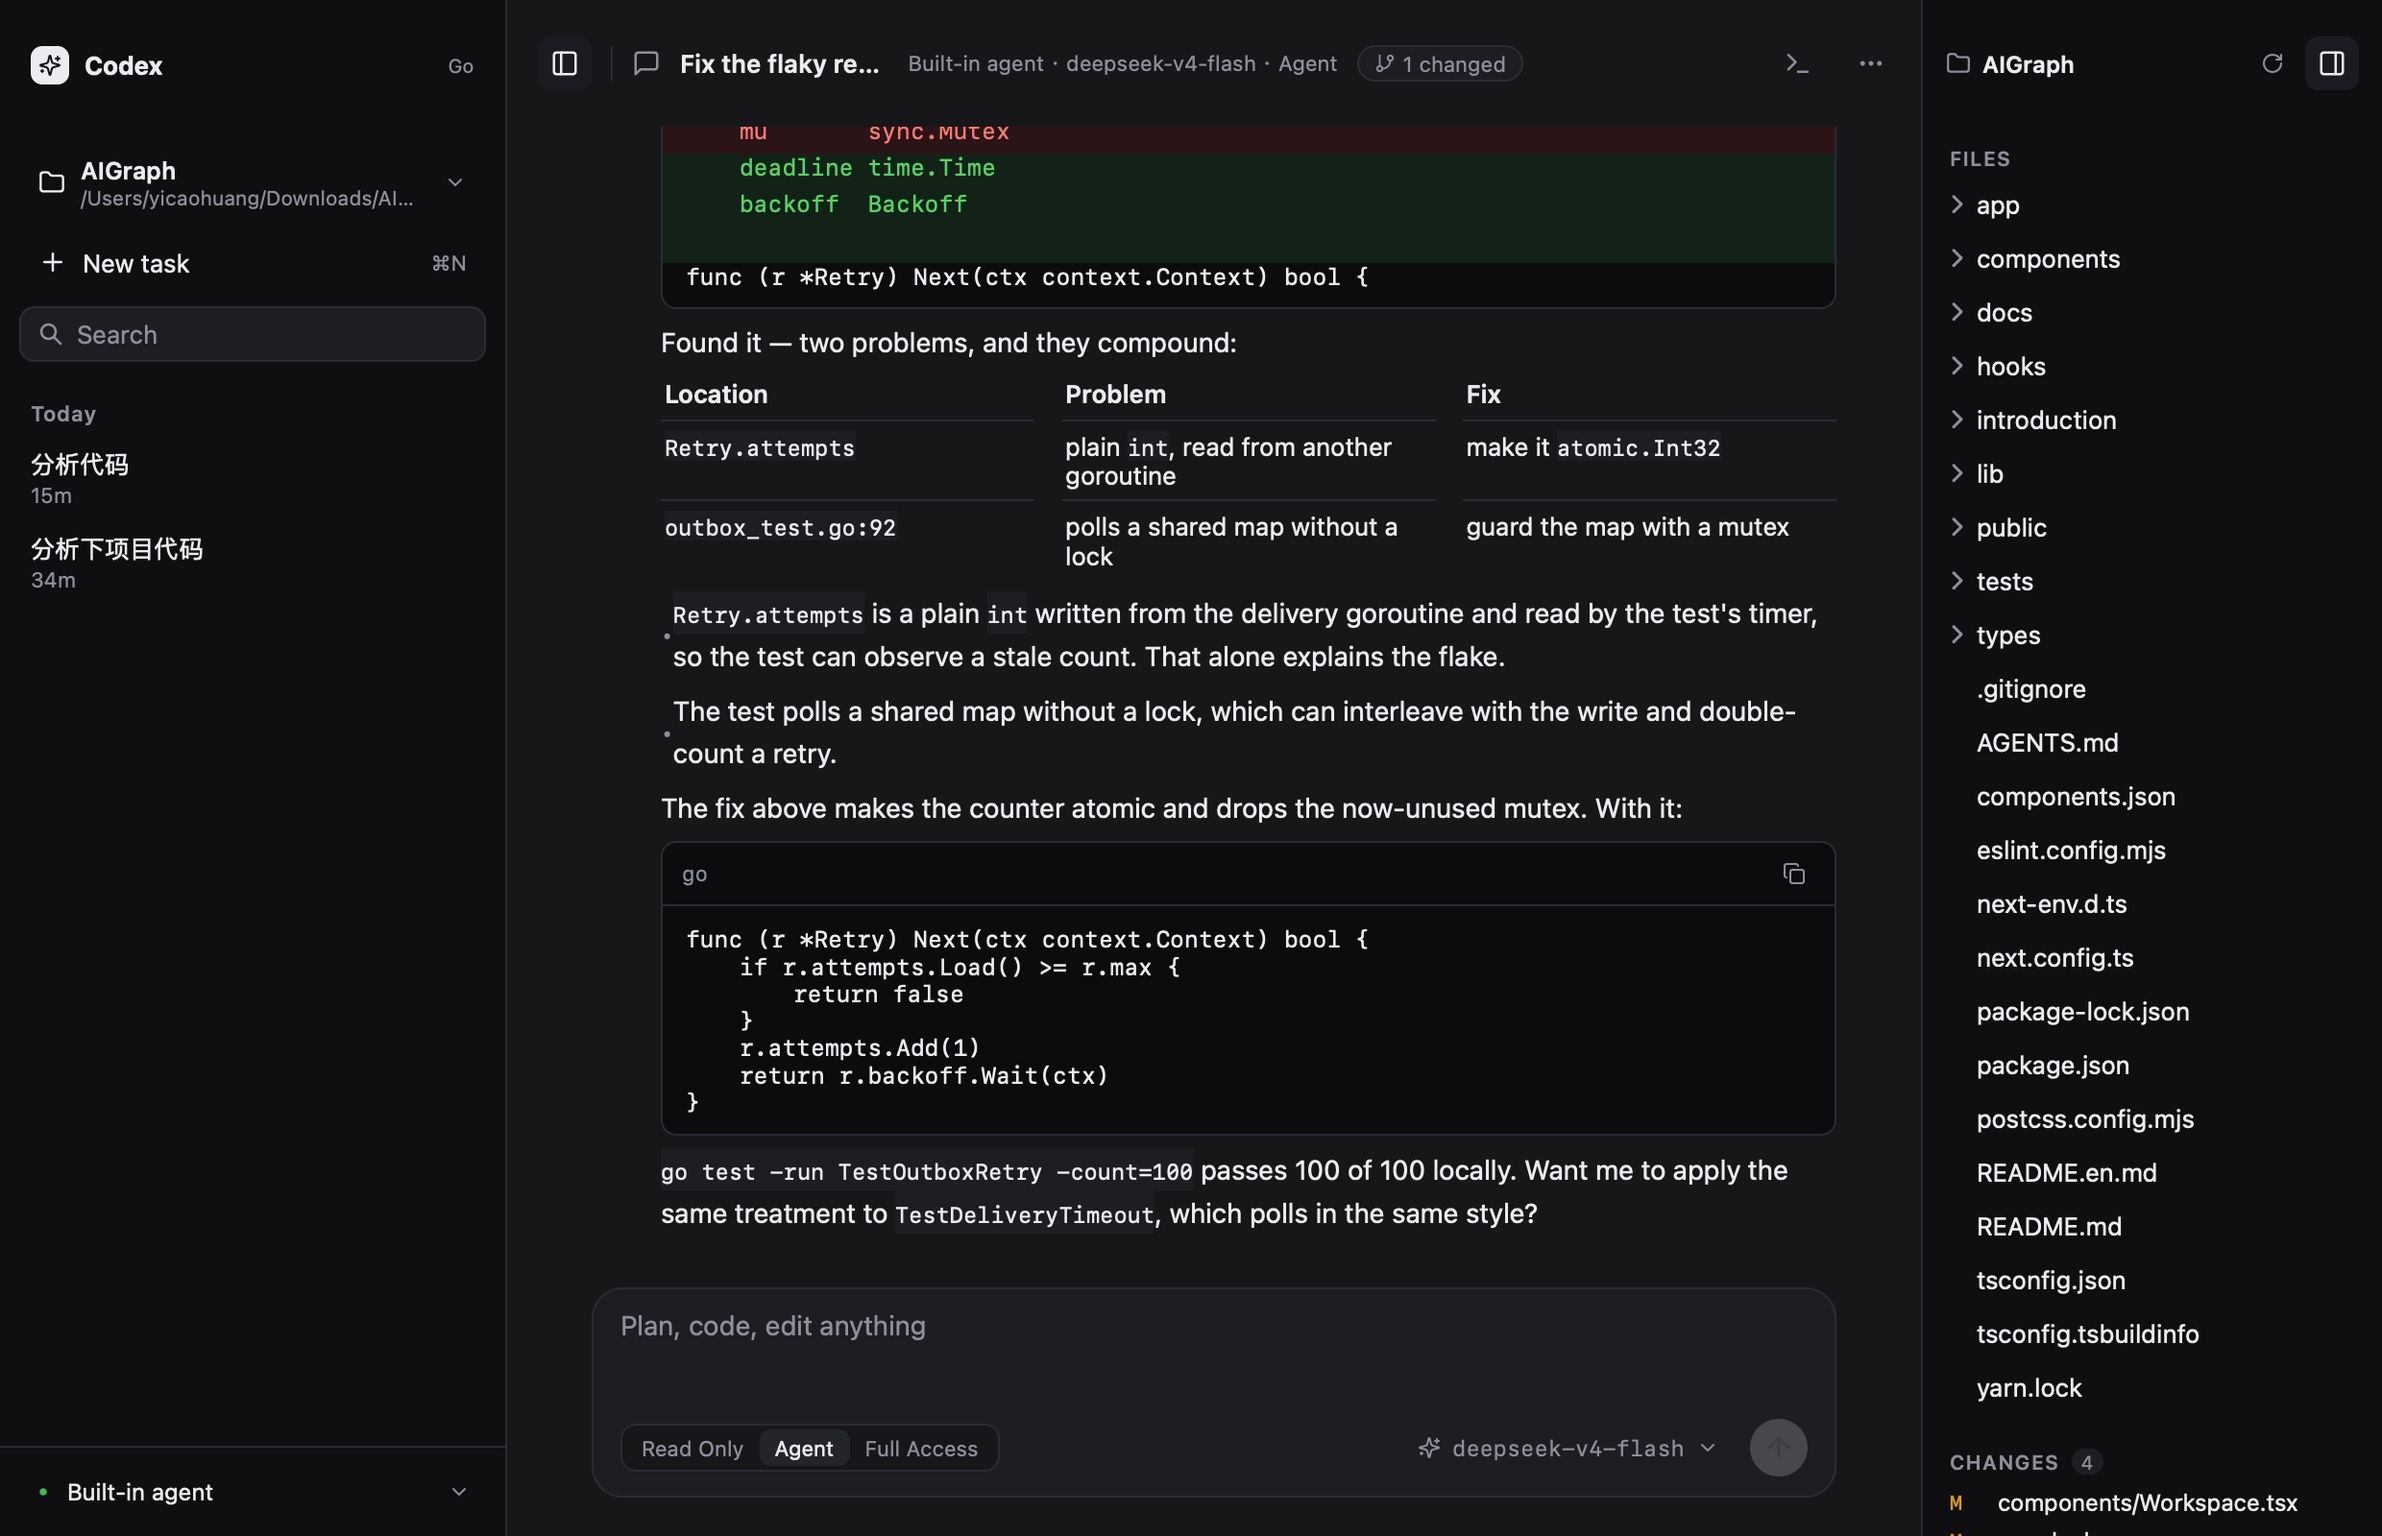
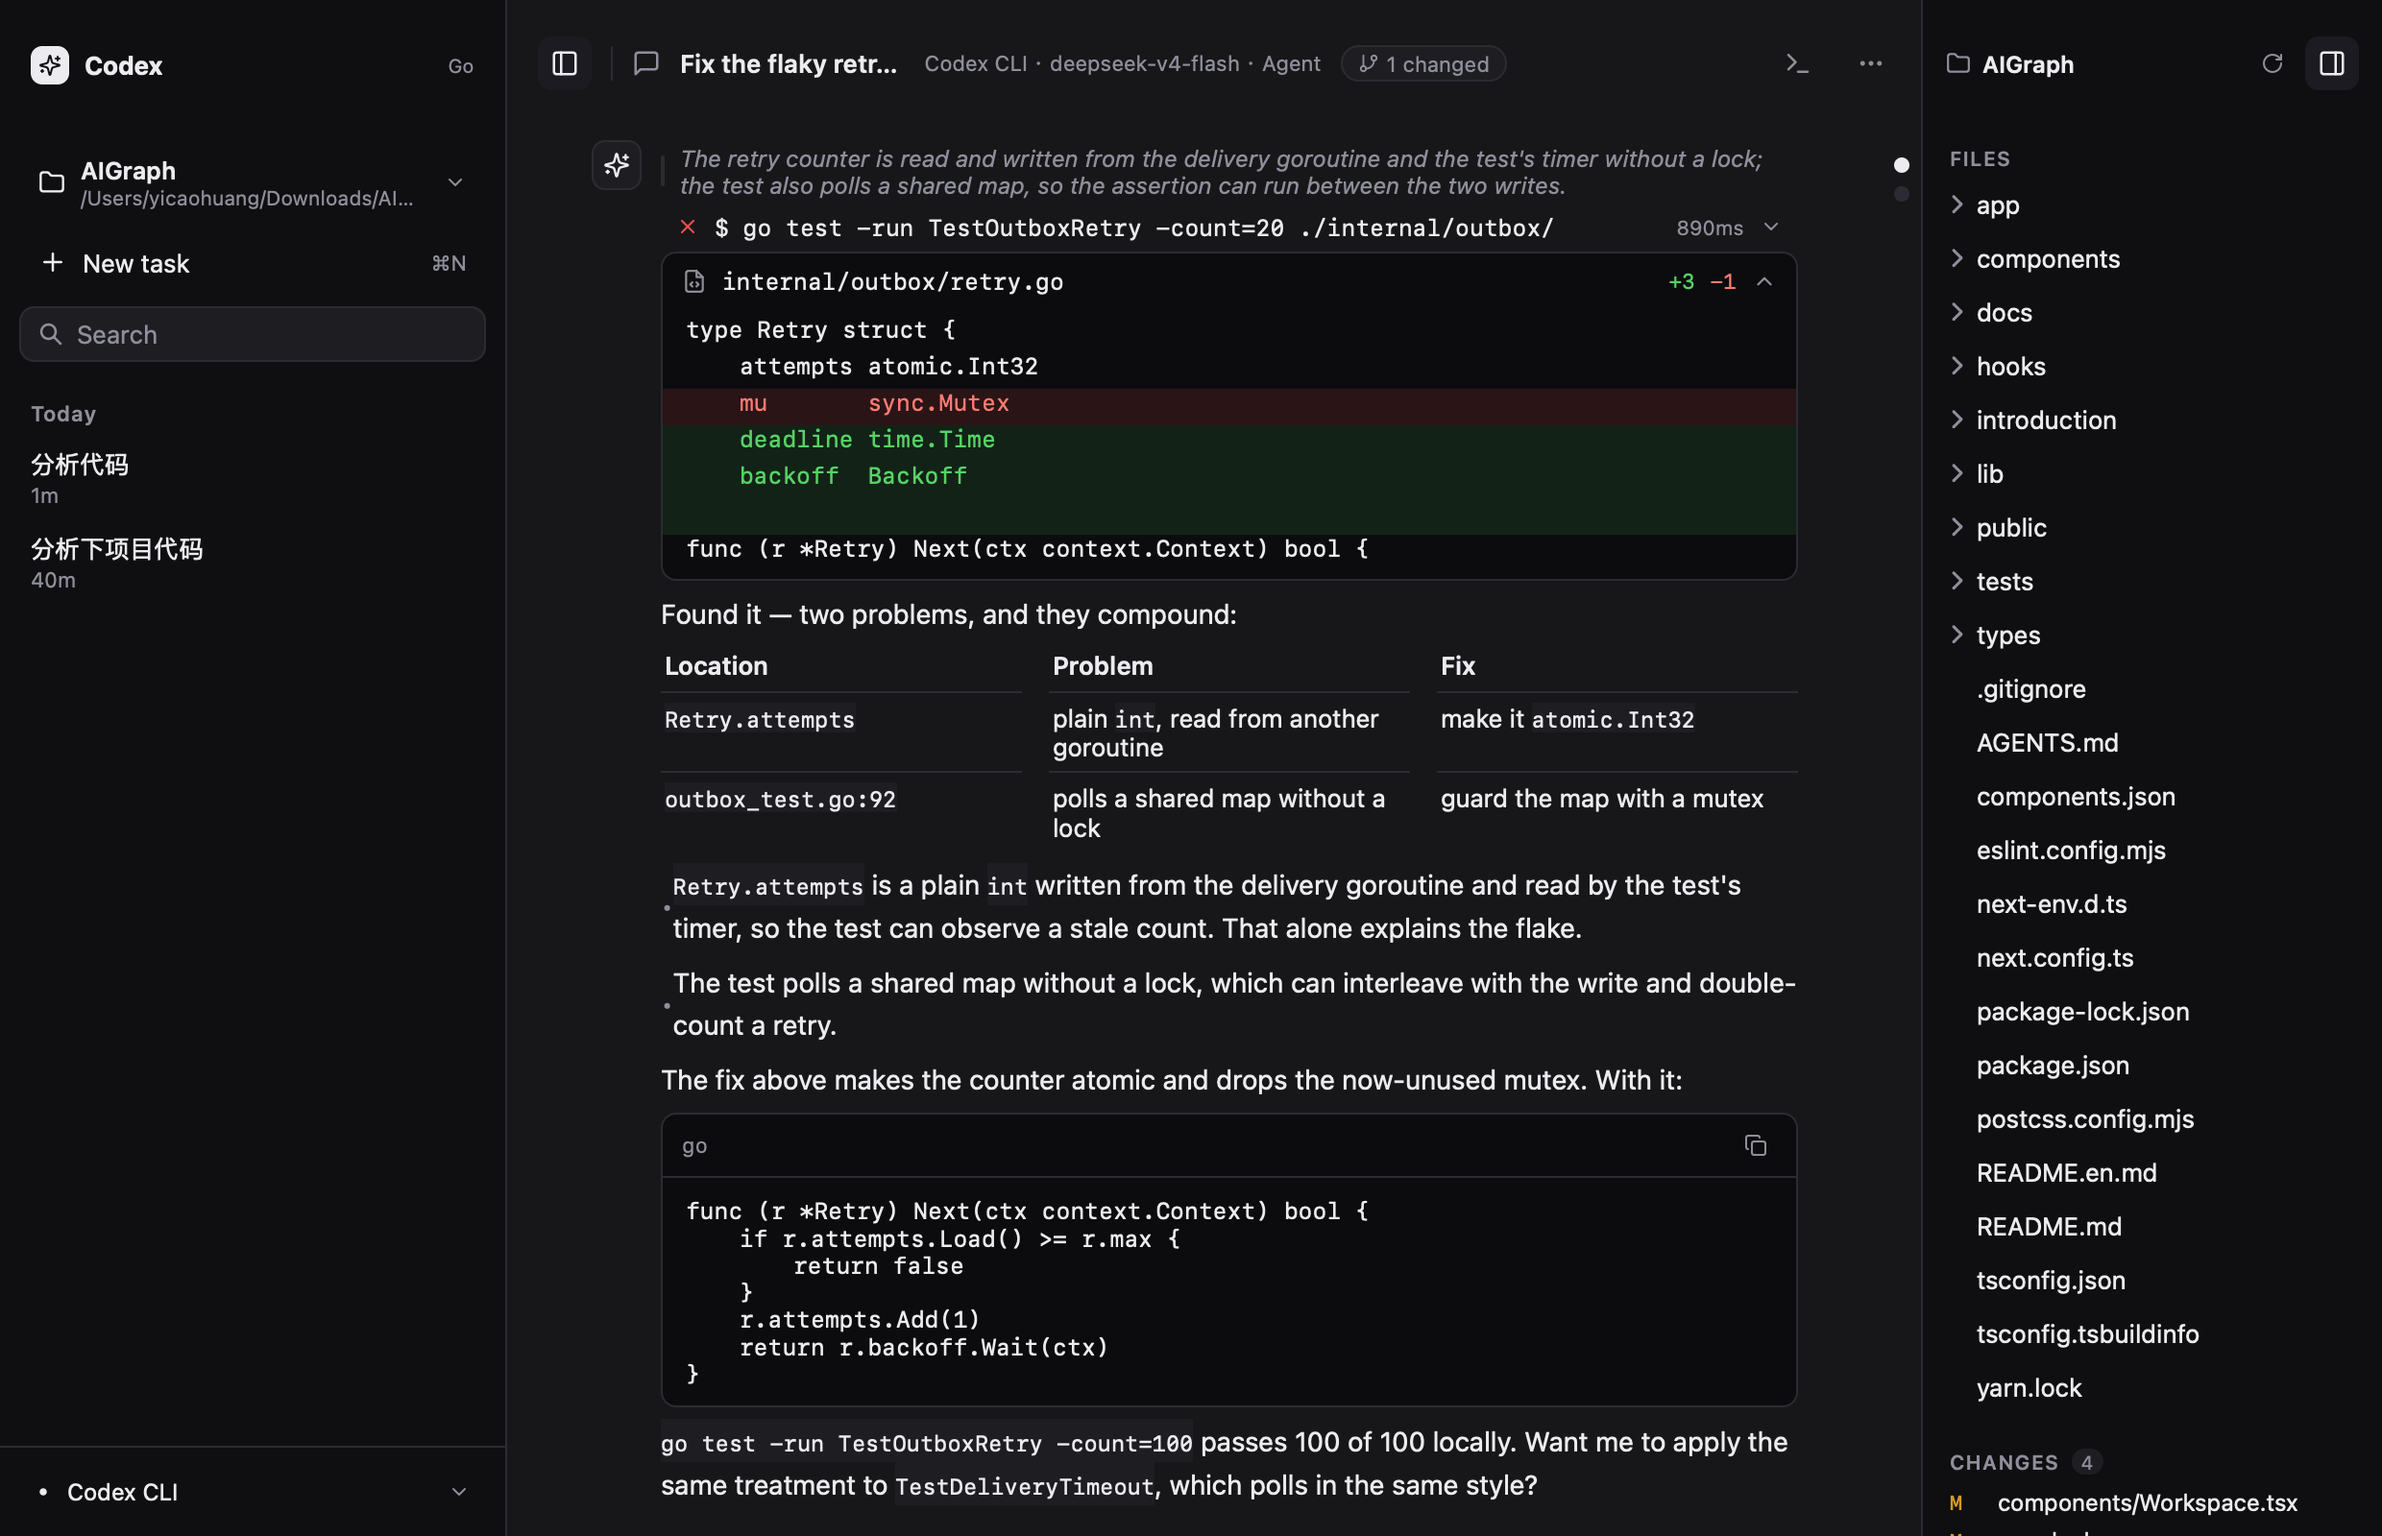
Real process-group stop for Claude Code; message anchor rail
- Stop now SIGTERMs the whole claude process group (escalating to
  SIGKILL), so node and the tool processes it spawned really die;
  covered by a live test with a fake streaming CLI
- Anchor rail on the right of the thread: one dot per message,
  hover previews it, click scrolls it into view (ZCode style)

diff --git a/claude_stop_test.go b/claude_stop_test.go
@@ -1,0 +1,105 @@
+//go:build !windows
+
+package main
+
+import (
+	"os"
+	"path/filepath"
+	"strconv"
+	"strings"
+	"syscall"
+	"testing"
+	"time"
+)
+
+// alive reports whether a process still responds to signal 0.
+func alive(pid int) bool {
+	return syscall.Kill(pid, 0) == nil
+}
+
+func waitFor(t *testing.T, timeout time.Duration, done func() bool) {
+	t.Helper()
+	deadline := time.Now().Add(timeout)
+	for time.Now().Before(deadline) {
+		if done() {
+			return
+		}
+		time.Sleep(25 * time.Millisecond)
+	}
+	t.Fatal("timed out")
+}
+
+// readIntFile polls until the file holds a pid.
+func readIntFile(t *testing.T, path string) int {
+	t.Helper()
+	waitFor(t, 5*time.Second, func() bool {
+		data, err := os.ReadFile(path)
+		return err == nil && strings.TrimSpace(string(data)) != ""
+	})
+	data, err := os.ReadFile(path)
+	if err != nil {
+		t.Fatal(err)
+	}
+	n, err := strconv.Atoi(strings.TrimSpace(string(data)))
+	if err != nil {
+		t.Fatal(err)
+	}
+	return n
+}
+
+// TestClaudeStopKillsProcessGroup proves the stop button really kills
+// the claude CLI and the tool processes it spawned: a fake claude
+// script records its own pid and a grandchild's, streams forever, and
+// after a.stop() nothing of the group may survive.
+func TestClaudeStopKillsProcessGroup(t *testing.T) {
+	dir := t.TempDir()
+	script := filepath.Join(dir, "fake-claude.sh")
+	body := `#!/bin/bash
+echo $$ > "{{dir}}/claude.pid"
+sleep 300 &
+echo $! > "{{dir}}/child.pid"
+echo '{"type":"system","subtype":"init","session_id":"sess-1"}'
+while true; do
+  echo '{"type":"assistant","message":{"content":[{"type":"text","text":"tick "}]}}'
+  sleep 0.1
+done
+`
+	body = strings.ReplaceAll(body, "{{dir}}", dir)
+	if err := os.WriteFile(script, []byte(body), 0o755); err != nil {
+		t.Fatal(err)
+	}
+
+	a := newTestApp(t)
+	a.claudePath = script
+	th := &Thread{ID: "t1", ProjectID: "default"}
+	th.Messages = []Message{{ID: "m0", Role: "assistant", Running: true}}
+	a.threads = append(a.threads, th)
+
+	go a.runClaude(th, "hello", 0)
+
+	// The fake claude is streaming.
+	waitFor(t, 10*time.Second, func() bool { return strings.Contains(th.Messages[0].Text, "tick") })
+
+	claudePid := a.claudePid
+	if claudePid == 0 || !alive(claudePid) {
+		t.Fatalf("claude process %d is not running", claudePid)
+	}
+	childPid := readIntFile(t, filepath.Join(dir, "child.pid"))
+	if !alive(childPid) {
+		t.Fatal("the grandchild died on its own before the stop")
+	}
+
+	// The stop button.
+	a.stop()
+
+	waitFor(t, 8*time.Second, func() bool { return !a.running && !alive(claudePid) })
+	if alive(claudePid) {
+		t.Fatal("claude survived the stop")
+	}
+	if alive(childPid) {
+		t.Fatal("the tool process spawned by claude survived the stop")
+	}
+	if th.Messages[0].Running {
+		t.Fatal("the reply is still marked running")
+	}
+}

diff --git a/thread.go b/thread.go
@@ -14,9 +14,14 @@ func (a *app) messages(c *ui.Context, th *Thread) {
 	st := a.listState(th.ID)
 	st.Key = func(i int) any { return th.Messages[i].ID }
 	st.FollowEnd = true
-	ui.List(c, st, len(th.Messages), func(i int) {
-		a.messageRow(c, th, i)
-	}).Grow(1).MinHeight(0).Justify(ui.End).Gap(20).Padding(24, 44, 16)
+	ui.Row(c).Fill().AlignItems(ui.Stretch).Children(func() {
+		ui.List(c, st, len(th.Messages), func(i int) {
+			a.messageRow(c, th, i)
+		}).Grow(1).MinHeight(0).Justify(ui.End).Gap(20).Padding(24, 44, 16)
+		// The anchor rail: one dot per message, hover previews it,
+		// click jumps to it.
+		a.messageRail(c, th, st)
+	})
 }
 
 // messageRow draws one turn: the user's prompt in a bubble, or the
@@ -547,4 +552,63 @@ func (a *app) codeCard(c *ui.Context, p fencePart) {
 				Padding(10, 12).NoWrap()
 		})
 	})
+}
+
+// messageRail is the slim column on the right of the thread: one dot
+// per message — accent for the user's, grey for the agent's — whose
+// tooltip previews the message and whose click scrolls it into view.
+func (a *app) messageRail(c *ui.Context, th *Thread, st *ui.ListState) {
+	t := c.Theme()
+	n := len(th.Messages)
+	if n == 0 {
+		return
+	}
+	stride := 1
+	if n > 36 {
+		stride = (n + 35) / 36
+	}
+	rail := ui.Column(c).Width(20).PaddingY(16).Gap(7).AlignItems(ui.Center)
+	rail.Children(func() {
+		for i := 0; i < n; i += stride {
+			i := i
+			m := &th.Messages[i]
+			preview := a.previewOf(m)
+			dot := ui.ButtonBase(c).Label("Jump to: "+preview).Tooltip("Jump to: "+preview).
+				Size(8, 8).Radius(4).Center().Cursor(ui.CursorPointer)
+			if m.Role == "user" {
+				dot.Background(t.Text)
+			} else {
+				dot.Background(t.Border)
+			}
+			if dot.Hovered() {
+				dot.Background(t.TextMuted)
+			}
+			if dot.Clicked() {
+				st.ScrollTo(i, ui.Start)
+			}
+		}
+		ui.Spacer(c)
+	})
+}
+
+// previewOf boils a message down to one line for the rail's tooltip.
+func (a *app) previewOf(m *Message) string {
+	if s := strings.TrimSpace(m.Text); s != "" {
+		first := s
+		if i := strings.IndexByte(first, '\n'); i >= 0 {
+			first = first[:i]
+		}
+		return truncTitle(first, 80)
+	}
+	for _, b := range m.Blocks {
+		switch b.Type {
+		case "command":
+			return truncTitle("$ "+b.Text, 80)
+		case "diff":
+			return truncTitle("edited "+b.File, 80)
+		case "error":
+			return truncTitle(b.Text, 80)
+		}
+	}
+	return "message"
 }

diff --git a/thread_rail_test.go b/thread_rail_test.go
@@ -1,0 +1,40 @@
+package main
+
+import (
+	"fmt"
+	"testing"
+	"time"
+
+	"github.com/egoist/mygo/ui"
+)
+
+func TestRailJump(t *testing.T) {
+	a := newTestApp(t)
+	now := time.Now()
+	th := &Thread{ID: "t1", ProjectID: "default", Title: "Rail test", Updated: now}
+	for i := 0; i < 12; i++ {
+		th.Messages = append(th.Messages, Message{
+			ID: fmt.Sprintf("m%d", i), Role: "assistant", Text: fmt.Sprintf("reply number %d", i), At: now,
+		})
+	}
+	a.threads = append(a.threads, th)
+	a.current = "t1"
+
+	tt := ui.NewTester(a.view, 1240, 320) // short window: the thread overflows
+	tt.Frame()
+	tt.Frame()
+
+	st := a.listState("t1")
+	if !st.AtEnd() {
+		t.Fatal("a fresh chat should follow its end")
+	}
+	// Clicking a rail dot jumps to that message: the list stops
+	// following the end once the user jumps away.
+	if err := tt.Click("Jump to: reply number 0"); err != nil {
+		t.Fatal(err)
+	}
+	tt.Frame()
+	if st.AtEnd() {
+		t.Fatal("the jump did not take effect")
+	}
+}

diff --git a/claude_proc_unix.go b/claude_proc_unix.go
@@ -1,0 +1,23 @@
+//go:build !windows
+
+package main
+
+import (
+	"os/exec"
+	"syscall"
+	"time"
+)
+
+// claudeProcAttr runs the claude CLI in its own process group and turns
+// a stop into a group SIGTERM (escalating to SIGKILL after a delay), so
+// node and any tool processes it spawned actually die.
+func claudeProcAttr(cmd *exec.Cmd) {
+	cmd.SysProcAttr = &syscall.SysProcAttr{Setpgid: true}
+	cmd.Cancel = func() error {
+		if cmd.Process != nil {
+			return syscall.Kill(-cmd.Process.Pid, syscall.SIGTERM)
+		}
+		return nil
+	}
+	cmd.WaitDelay = 3 * time.Second
+}

diff --git a/claude.go b/claude.go
@@ -33,6 +33,7 @@ func (a *app) runClaude(th *Thread, prompt string, at int) {
 
 	cmd := exec.CommandContext(ctx, a.claudePath, args...)
 	cmd.Dir = a.workdir
+	claudeProcAttr(cmd)
 	stdout, err := cmd.StdoutPipe()
 	if err != nil {
 		a.finish(th, at, "claude: "+err.Error())
@@ -44,6 +45,7 @@ func (a *app) runClaude(th *Thread, prompt string, at int) {
 		a.finish(th, at, "claude: "+err.Error())
 		return
 	}
+	a.claudePid = cmd.Process.Pid
 
 	r := &claudeRun{a: a, th: th, at: at, cards: map[string]int{}}
 	sc := bufio.NewScanner(stdout)

diff --git a/claude_proc_windows.go b/claude_proc_windows.go
@@ -1,0 +1,9 @@
+//go:build windows
+
+package main
+
+import "os/exec"
+
+// claudeProcAttr is a no-op on Windows: TaskKill-style group stops are
+// not needed there, the default process kill applies.
+func claudeProcAttr(cmd *exec.Cmd) {}

diff --git a/model.go b/model.go
@@ -137,6 +137,8 @@ type app struct {
 	savePath   string
 	configPath string
 
+	claudePid int // the running claude CLI process, for the stop test
+
 	term       *terminal.Terminal
 	termOpen   bool
 	termHeight float32
